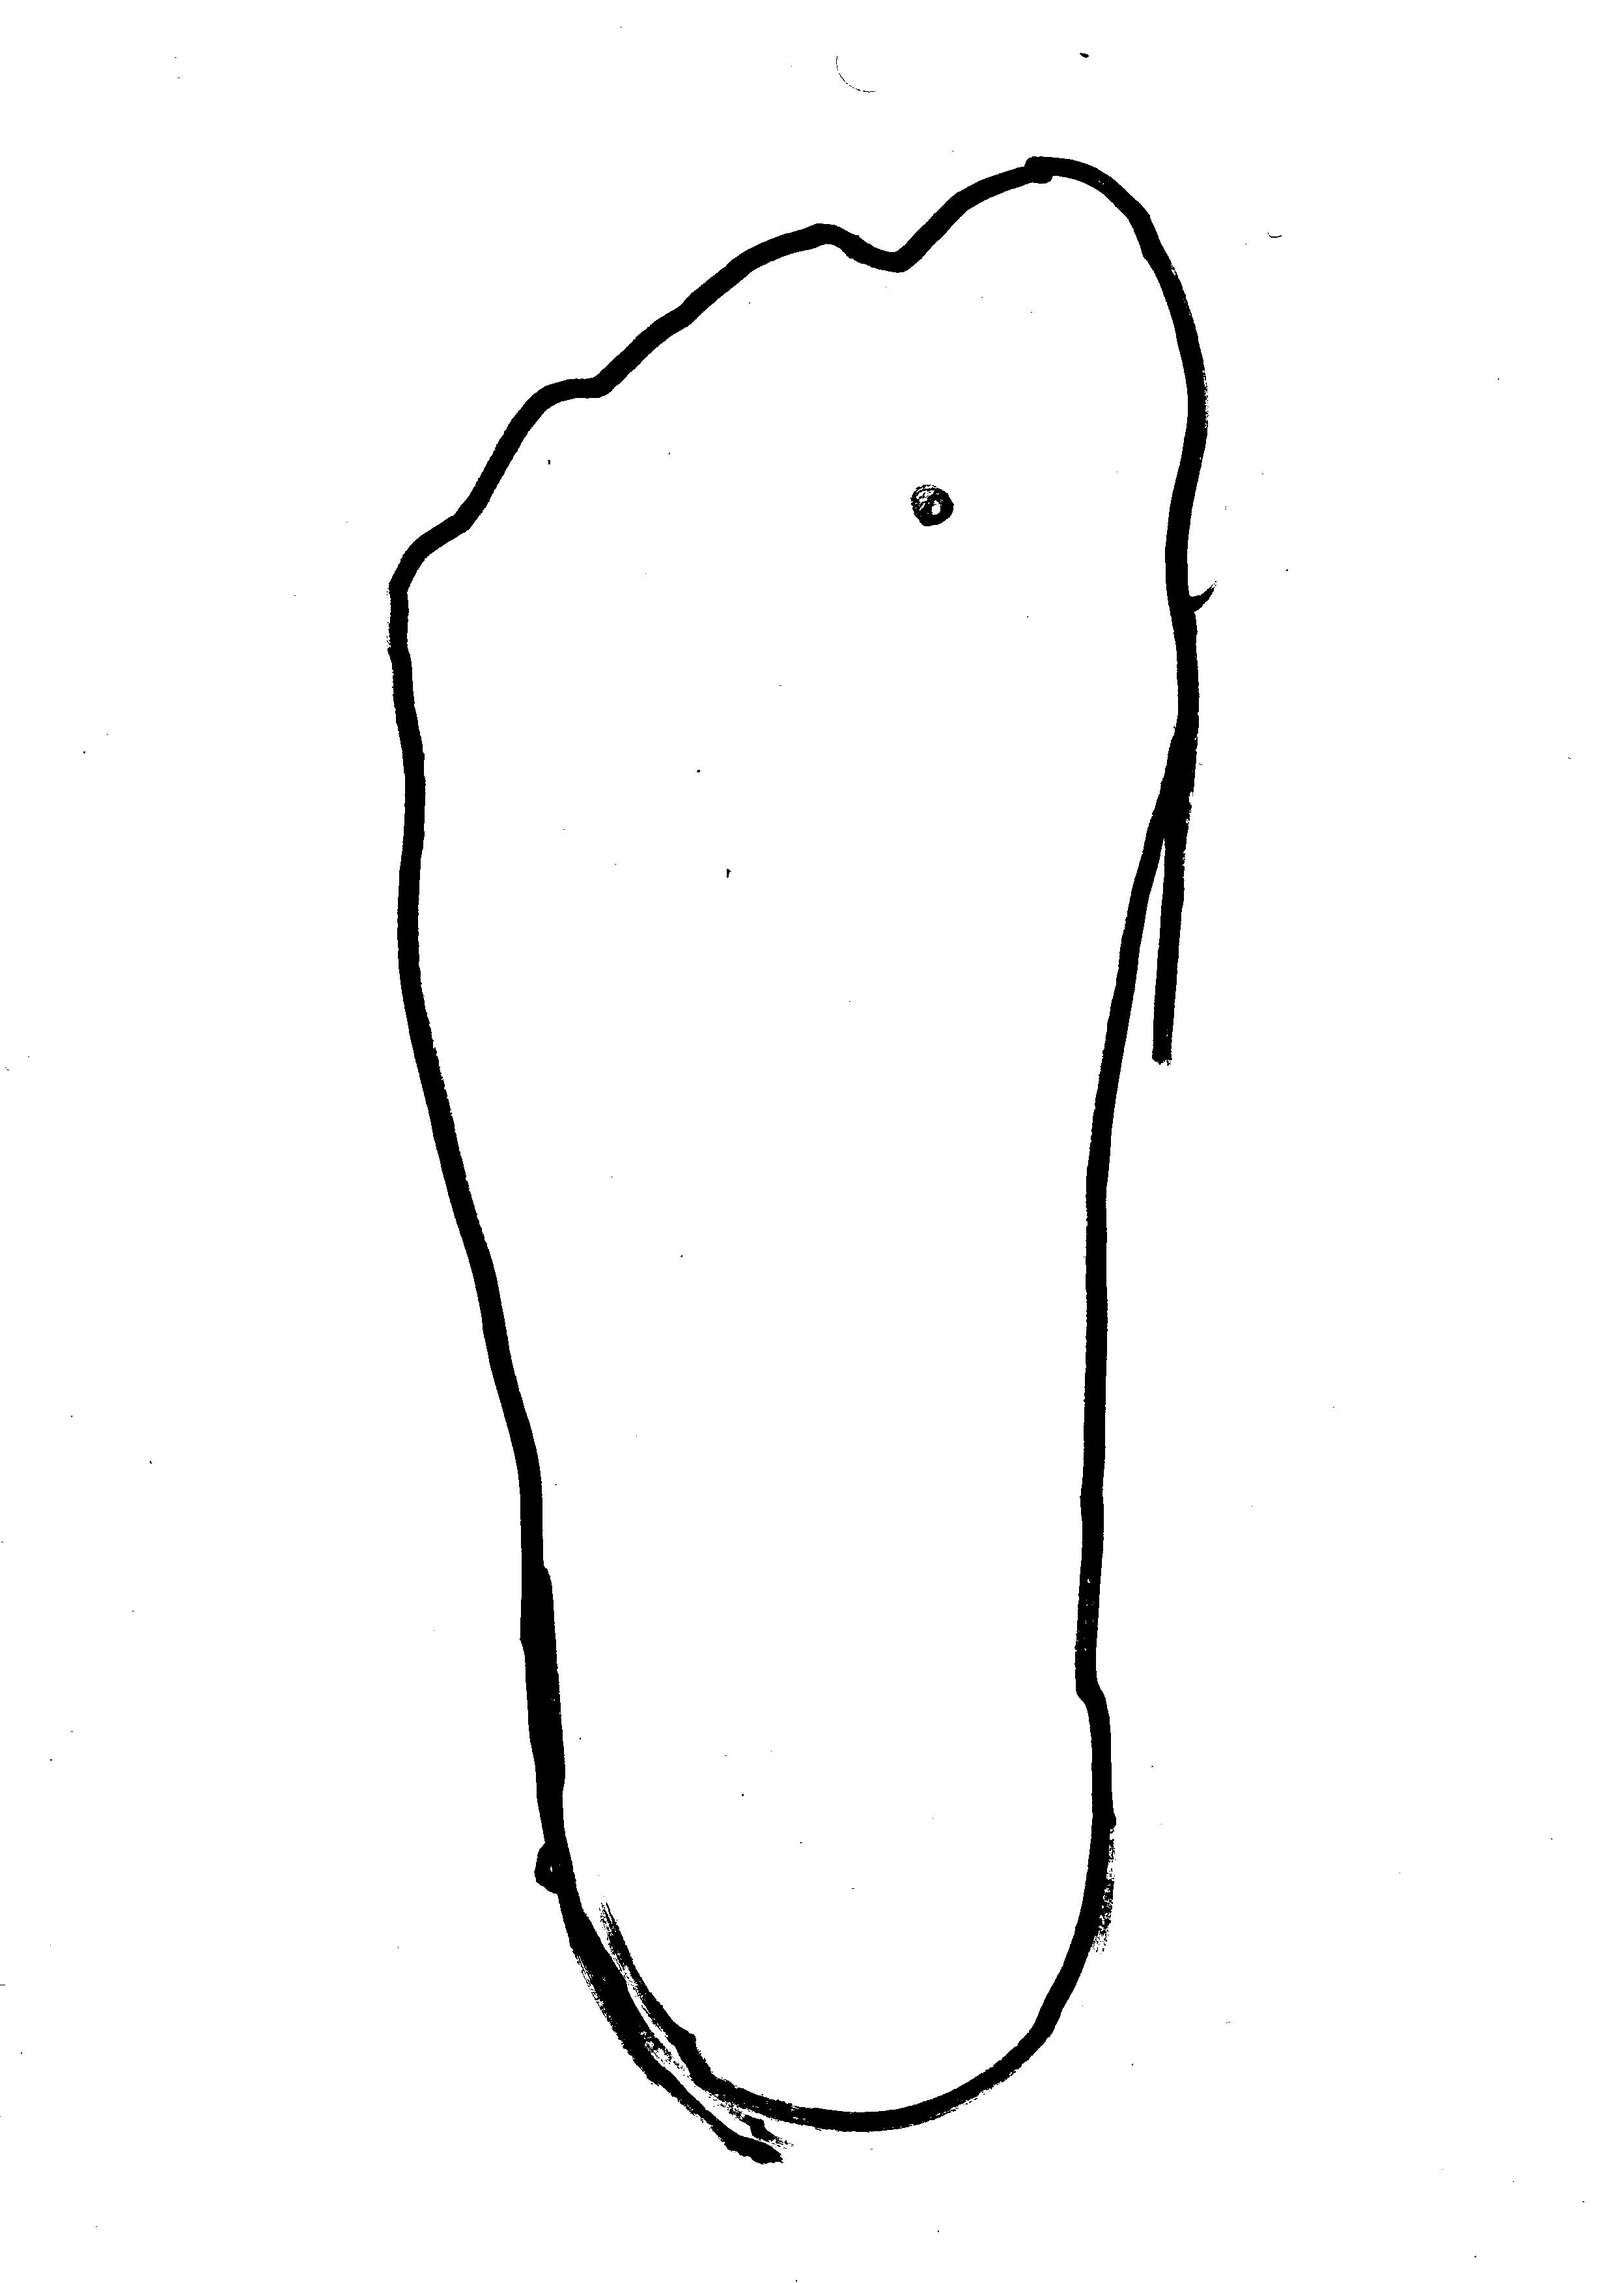
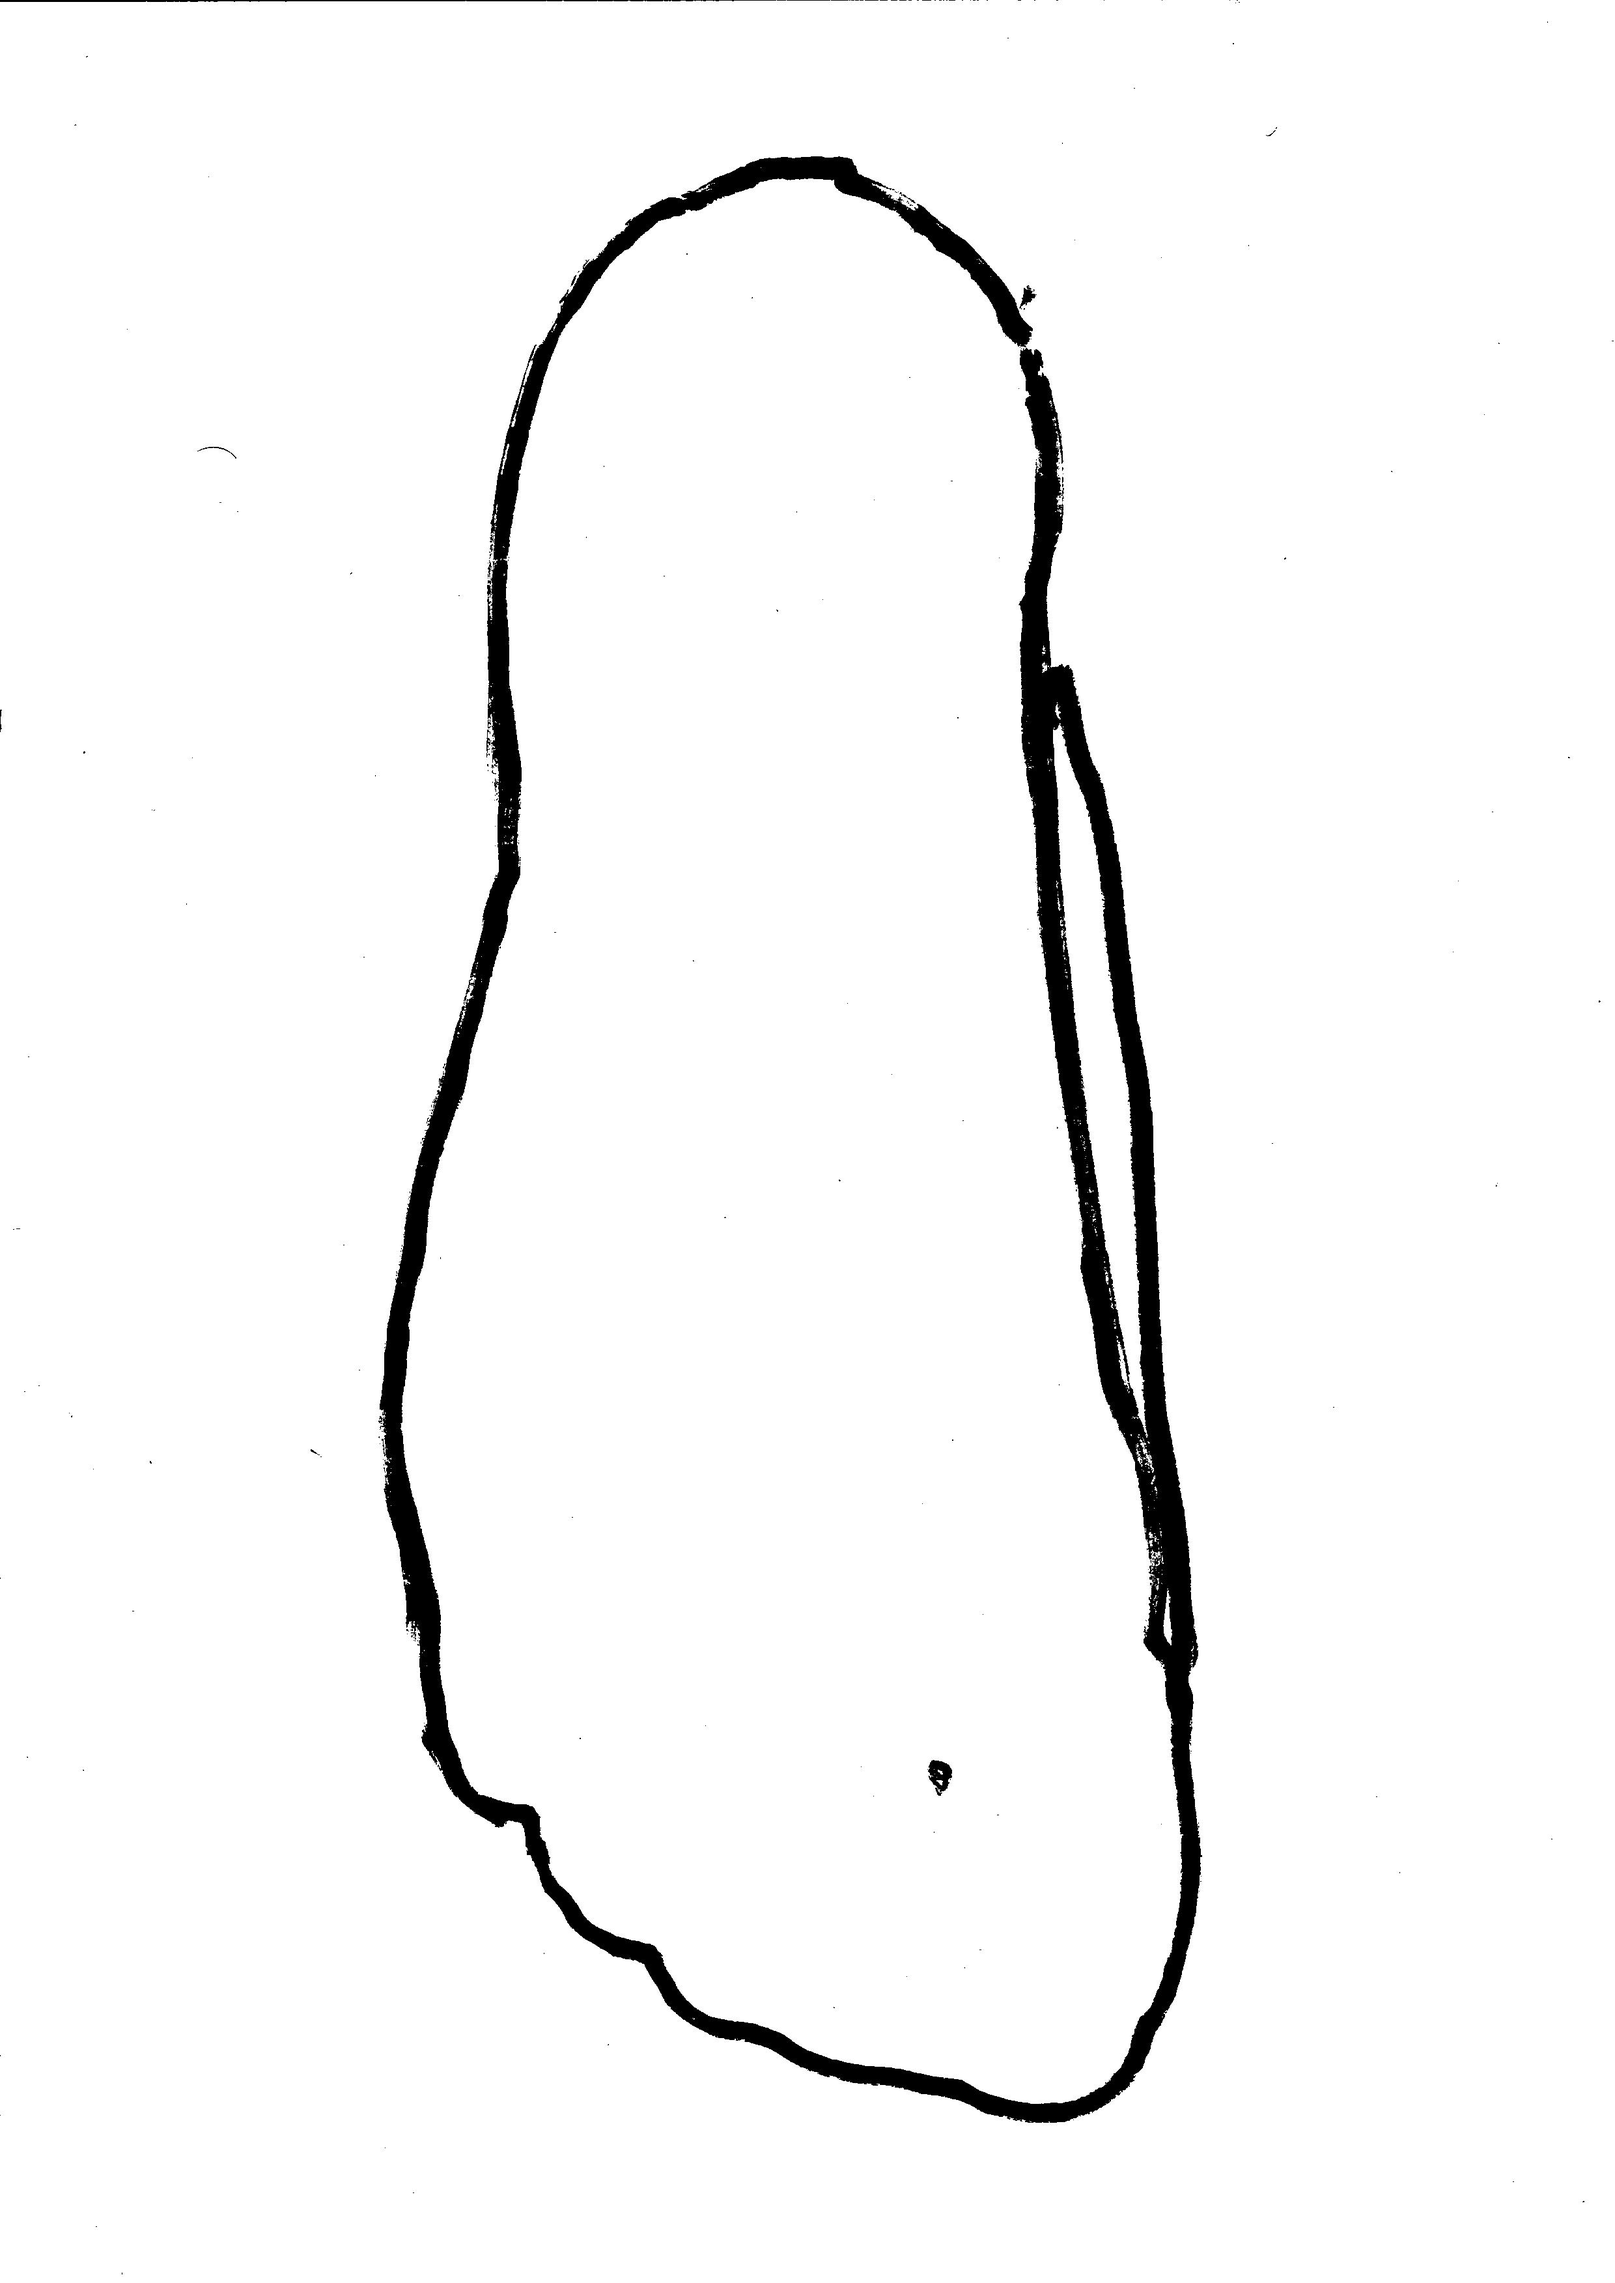
improvement/simplification on the enhance function, now want to take these pixels as a point cloud and then make a best fit curve around it

Changed region(s): [[0.2173, 0.0622, 0.7452, 0.9641], [0.5589, 0.2177, 0.5899, 0.2488]]

diff --git a/TemplateCreator.py b/TemplateCreator.py
@@ -13,75 +13,53 @@ def load_image(file_path):
 		print("Unable to load image")
 		return None
 
-def enhance_contrast(image):
+def enhance_image(image, threshold=128):
 	# Enhance the contrast of the image
-	enhancer = ImageEnhance.Contrast(image)
+	grayscale_image = image.convert('L')
+	enhancer = ImageEnhance.Contrast(grayscale_image)
 	enhanced_image = enhancer.enhance(5)  # Adjust the factor for desired contrast enhancement
-	return enhanced_image
+	threshold_image = enhanced_image.point(lambda p: 0 if p < threshold else 255, '1')
+	dilated_image = threshold_image.filter(ImageFilter.MaxFilter(size=3))
 
-def convert_to_monotone(image, threshold=128):
-	grayscale_image = image.convert("L")  # Convert to grayscale
-	# Threshold the image to create a monotone image
-	monotone_image = grayscale_image.point(lambda p: 0 if p < threshold else 255, '1')
-	return monotone_image
+	plt.subplot(121),plt.imshow(image,cmap = 'gray')
+	plt.title('Original Image'), plt.xticks([]), plt.yticks([])
+	plt.subplot(122),plt.imshow(dilated_image,cmap = 'gray')
+	plt.title('Edge Image'), plt.xticks([]), plt.yticks([])
+	plt.show()
+	return enhanced_image
 
 def vectorize_image(image):
 	img = cv2.imread(image)
 	gray = cv2.cvtColor(img, cv2.COLOR_BGR2GRAY)
-	blurred = cv2.GaussianBlur(gray, (5, 5), 0)
-	edges = cv2.Canny(blurred, 50, 150)
+	filtered = cv2.bilateralFilter(gray, 15, 75, 75)
+	blur = cv2.GaussianBlur(filtered, (9, 9), 0)
+	kernel = np.ones((10, 10), np.uint8) # Adjusting this helps
+	morph = cv2.morphologyEx(blur, cv2.MORPH_CLOSE, kernel)
+	edges = cv2.Canny(morph, 50, 150)
+	kernel = np.ones((10, 10), np.uint8)
+	dilated_edges = cv2.dilate(edges, kernel, iterations=1)
 	contours, _ = cv2.findContours(edges, cv2.RETR_EXTERNAL, cv2.CHAIN_APPROX_SIMPLE)
 	
 	smoothed_image = np.zeros_like(img)
 
 	for contour in contours:
-		epsilon = 0.01 * cv2.arcLength(contour, True)
+		epsilon = 0.001 * cv2.arcLength(contour, True)
 		approx = cv2.approxPolyDP(contour, epsilon, True)
 		cv2.drawContours(smoothed_image, [approx], -1, (0, 255, 0), 2)
 
 	plt.subplot(121),plt.imshow(img,cmap = 'gray')
 	plt.title('Original Image'), plt.xticks([]), plt.yticks([])
-	plt.subplot(122),plt.imshow(smoothed_image,cmap = 'gray')
+	plt.subplot(122),plt.imshow(dilated_edges,cmap = 'gray')
 	plt.title('Edge Image'), plt.xticks([]), plt.yticks([])
 	plt.show()
 
-	return image
+pic = load_image("/home/benjamin/Documents/Projects/RAM/right.jpg")
 
-# Function to convert the loaded image into a vector format
-# def convert_to_vector(image):
-	# Code to process the image and convert it into a vector format using edge detection or other techniques
-
-# # Function to extract the outline of the foot from the vector image
-# def extract_foot_outline(vector_image):
-# 	# Code to analyze the vector image and extract the foot outline, possibly using image processing algorithms
-
-# # Function to smooth the extracted foot outline
-# def smooth_outline(foot_outline):
-# 	# Code to apply a smoothing algorithm to the foot outline, removing jagged edges or imperfections
-
-# # Function to conform the outline to a more aesthetic shape
-# def conform_to_aesthetic_shape(smoothed_outline):
-# 	# Code to reshape the outline to a more aesthetic form, using predefined templates or mathematical transformations
-
-# # Function to generate the final sandal shape
-# def generate_sandal_shape(aesthetic_outline, sole_shape):
-# 	# Code to combine the aesthetic foot outline with a sole shape to create the final sandal shape
-
-# # Function to output/save/display the resulting sandal shape
-# def output_result(sandal_shape):
-# 	# Code to save or display the resulting sandal shape for the user
-
-pic = load_image("/home/benjamin/Documents/Projects/RAM/left.jpg")
-
-epic = enhance_contrast(pic)
-
-eepic = convert_to_monotone(epic)
+epic = enhance_image(pic)
 
 
 epic.save("cont.jpg")
-eepic.save("mono.jpg")
 
-
-vector = vectorize_image("mono.jpg")
+# vector = vectorize_image("mono.jpg")
 # vector.save("vect.jpg")
 
